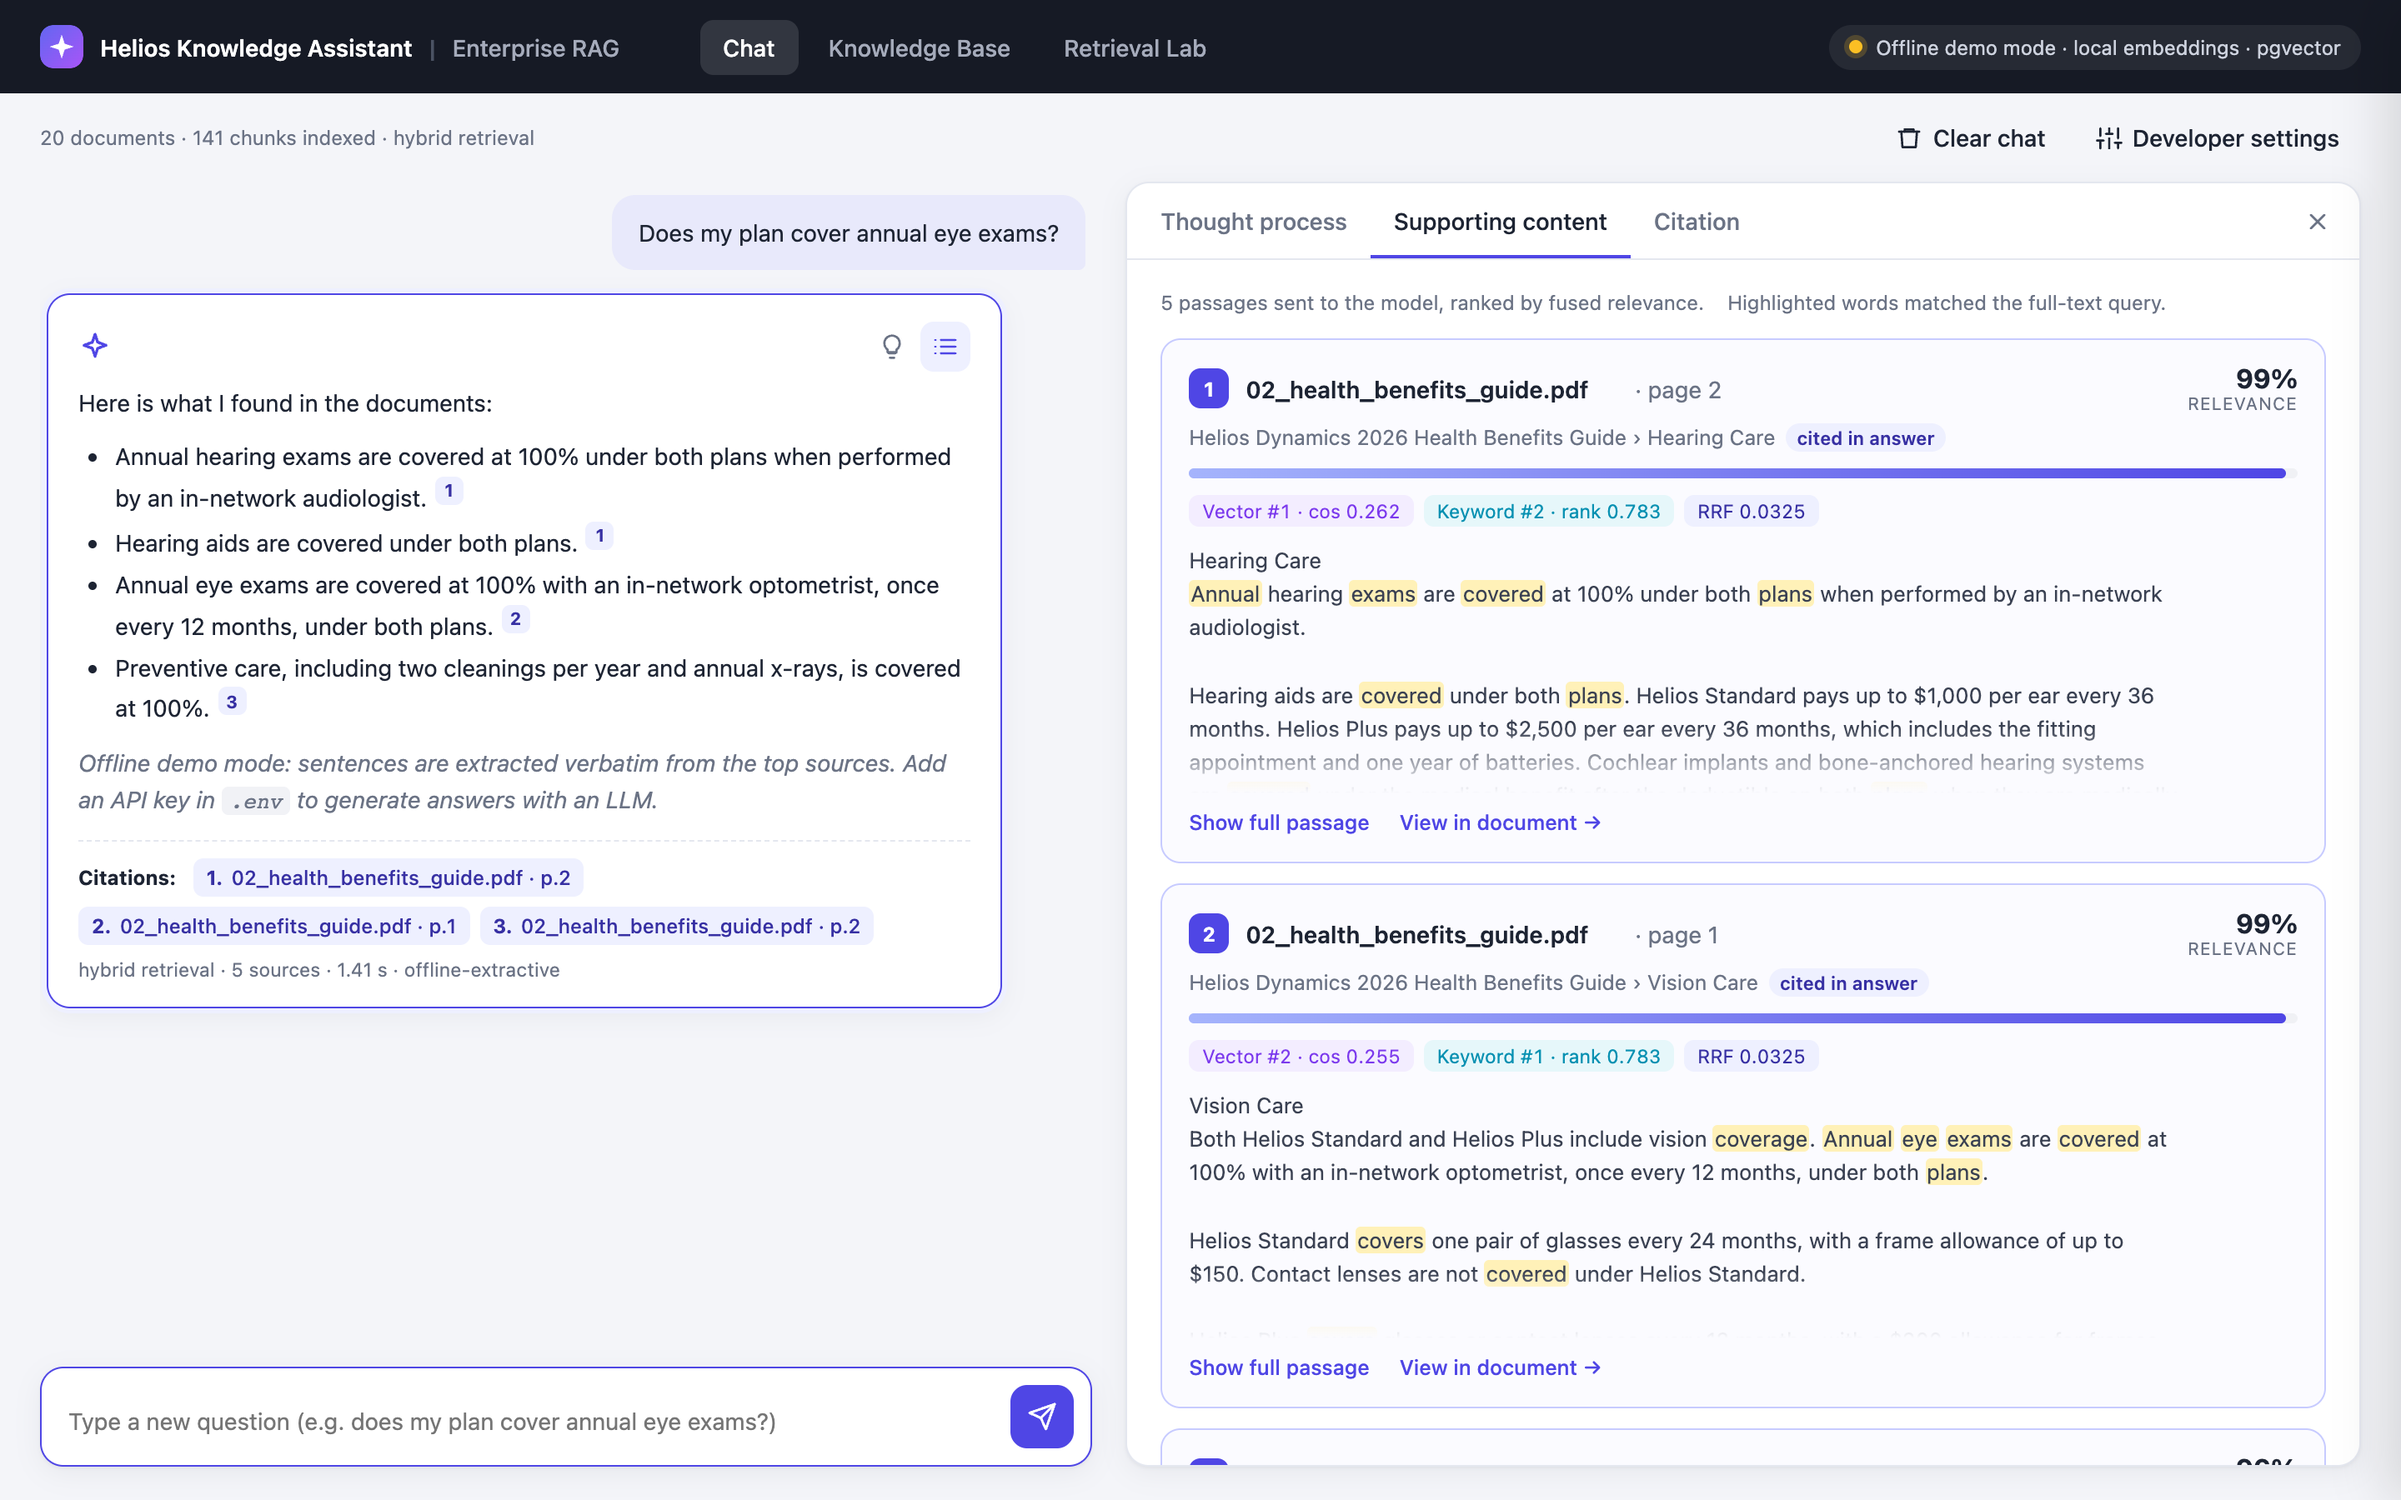
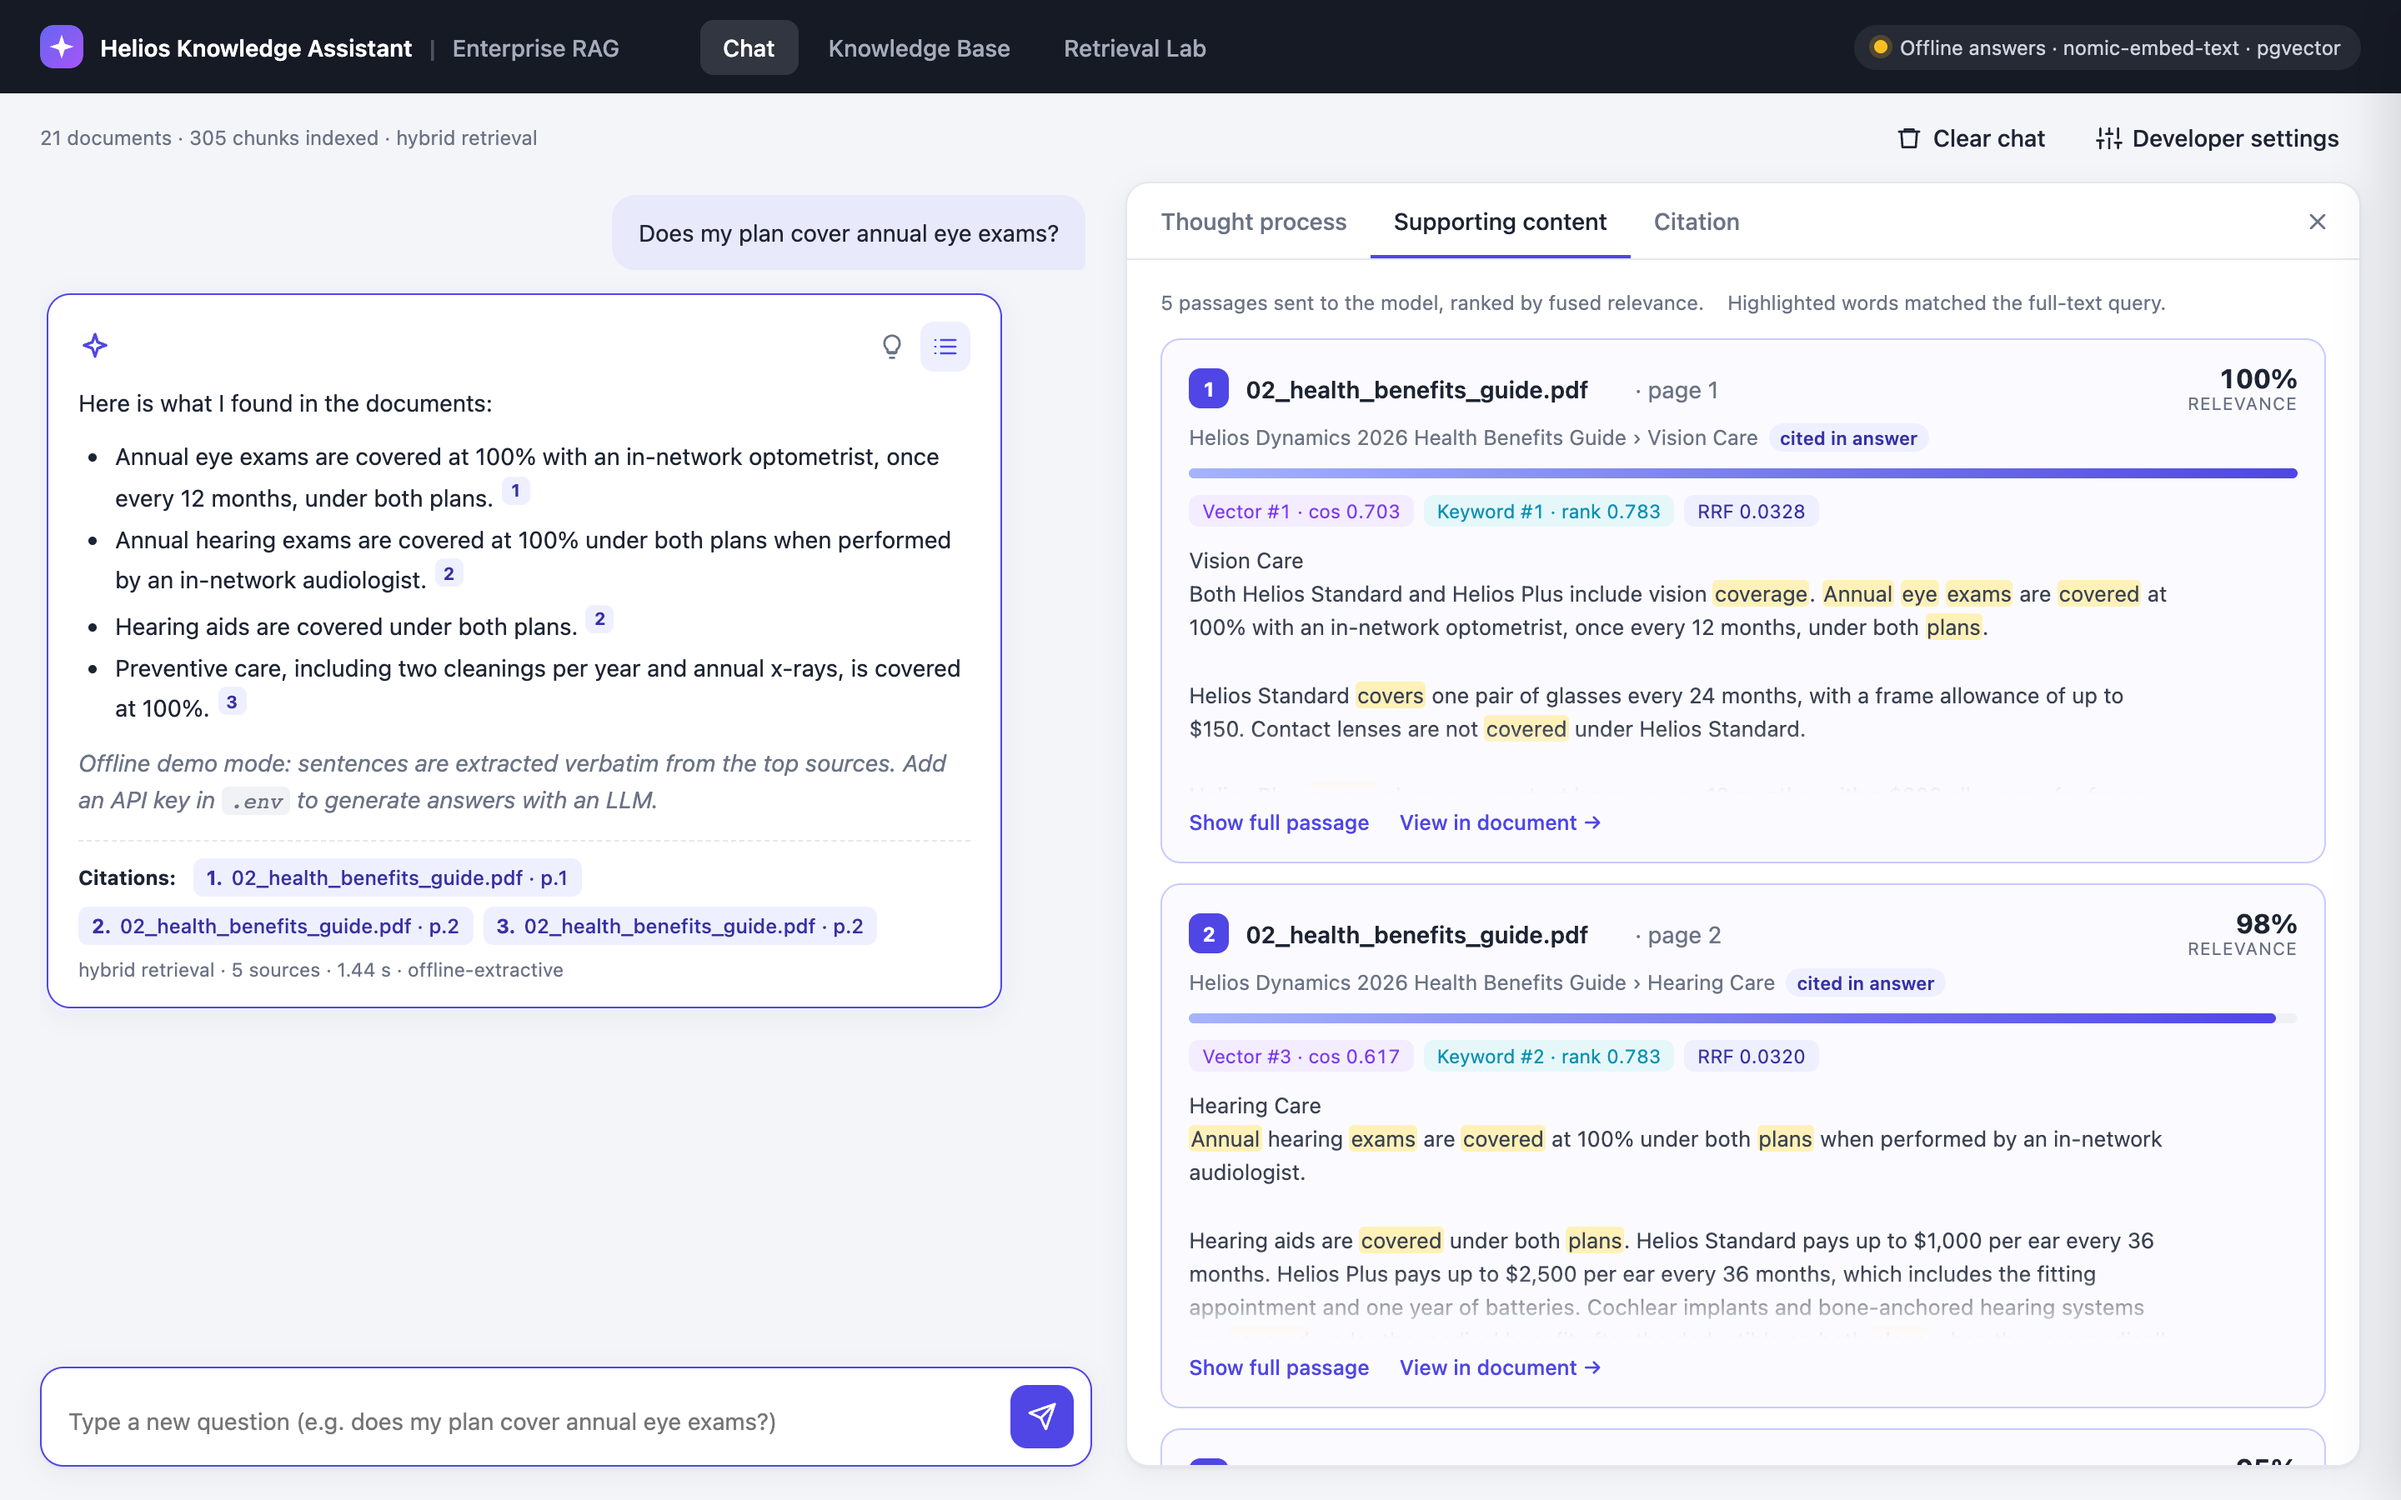
Support local Ollama embeddings, explicit RRF tie-break, refresh screenshots and README

diff --git a/static/app.js b/static/app.js
@@ -118,9 +118,9 @@ async function refreshHealth() {
     const pill = $("#stackPill");
     pill.classList.toggle("online", h.llm_enabled);
     pill.classList.toggle("offline", !h.llm_enabled);
-    $("#stackText").textContent = h.llm_enabled
-      ? `${h.chat_model} · ${h.embedding_model} · pgvector`
-      : "Offline demo mode · local embeddings · pgvector";
+    const chatLabel = h.llm_enabled ? h.chat_model : "Offline answers";
+    const embedLabel = h.embeddings_enabled ? h.embedding_model : "local hashing embeddings";
+    $("#stackText").textContent = `${chatLabel} · ${embedLabel} · pgvector`;
     $("#pipelineModel").textContent = `${h.embedding_model} (${h.embedding_dim}d)`;
 
     const kb = $("#kbStatus");

diff --git a/app/embeddings.py b/app/embeddings.py
@@ -12,7 +12,7 @@ import hashlib
 import math
 import re
 from functools import lru_cache
-from typing import Protocol
+from typing import Literal, Protocol
 
 import numpy as np
 
@@ -20,26 +20,45 @@ from .config import settings
 from .text_utils import STOPWORDS, stem
 
 
+InputType = Literal["document", "query"]
+
+# Models trained with task prefixes retrieve noticeably better when they are used.
+TASK_PREFIXES = {
+    "nomic-embed": {"document": "search_document: ", "query": "search_query: "},
+}
+
+
 class Embedder(Protocol):
     name: str
 
-    def embed(self, texts: list[str]) -> list[np.ndarray]: ...
+    def embed(self, texts: list[str], input_type: InputType = "document") -> list[np.ndarray]: ...
 
 
 class OpenAIEmbedder:
+    """Any OpenAI-compatible /v1/embeddings endpoint (OpenAI, Azure, Ollama, ...)."""
+
     def __init__(self) -> None:
         from openai import OpenAI
 
-        self.client = OpenAI(api_key=settings.openai_api_key, base_url=settings.openai_base_url)
+        # Local servers such as Ollama ignore the key, but the client requires a non-empty value.
+        api_key = settings.embedding_api_key or settings.openai_api_key or "unused"
+        self.client = OpenAI(api_key=api_key, base_url=settings.embedding_base_url or settings.openai_base_url)
         self.name = settings.embedding_model
+        self.prefixes = next((p for k, p in TASK_PREFIXES.items() if self.name.startswith(k)), None)
 
-    def embed(self, texts: list[str]) -> list[np.ndarray]:
+    def embed(self, texts: list[str], input_type: InputType = "document") -> list[np.ndarray]:
         vectors: list[np.ndarray] = []
         extra = {"dimensions": settings.embedding_dim} if self.name.startswith("text-embedding-3") else {}
+        prefix = self.prefixes[input_type] if self.prefixes else ""
         for i in range(0, len(texts), 96):
-            batch = [t.replace("\n", " ")[:8000] for t in texts[i:i + 96]]
+            batch = [prefix + t.replace("\n", " ")[:8000] for t in texts[i:i + 96]]
             response = self.client.embeddings.create(model=self.name, input=batch, **extra)
             vectors.extend(np.asarray(item.embedding, dtype=np.float32) for item in response.data)
+        if vectors and len(vectors[0]) != settings.embedding_dim:
+            raise ValueError(
+                f"{self.name} returned {len(vectors[0])}-dimensional vectors but EMBEDDING_DIM="
+                f"{settings.embedding_dim}; update EMBEDDING_DIM and recreate the chunks table"
+            )
         return vectors
 
 
@@ -65,10 +84,10 @@ class HashingEmbedder:
         norm = float(np.linalg.norm(vec))
         return vec / norm if norm > 0 and math.isfinite(norm) else vec
 
-    def embed(self, texts: list[str]) -> list[np.ndarray]:
+    def embed(self, texts: list[str], input_type: InputType = "document") -> list[np.ndarray]:
         return [self._vector(t) for t in texts]
 
 
 @lru_cache(maxsize=1)
 def get_embedder() -> Embedder:
-    return OpenAIEmbedder() if settings.llm_enabled else HashingEmbedder(settings.embedding_dim)
+    return OpenAIEmbedder() if settings.embeddings_enabled else HashingEmbedder(settings.embedding_dim)

diff --git a/app/config.py b/app/config.py
@@ -17,6 +17,10 @@ class Settings(BaseSettings):
     chat_model: str = "gpt-4o-mini"
     embedding_model: str = "text-embedding-3-small"
     embedding_dim: int = 1536
+    # Optional separate endpoint for embeddings, e.g. Ollama at http://localhost:11434/v1.
+    # Falls back to OPENAI_BASE_URL / OPENAI_API_KEY when unset.
+    embedding_base_url: str | None = None
+    embedding_api_key: str = ""
 
     upload_dir: Path = BASE_DIR / "data" / "uploads"
     sample_docs_dir: Path = BASE_DIR / "sample_data" / "documents"
@@ -31,8 +35,12 @@ class Settings(BaseSettings):
         return bool(self.openai_api_key.strip())
 
     @property
+    def embeddings_enabled(self) -> bool:
+        return bool(self.embedding_base_url or self.embedding_api_key.strip() or self.llm_enabled)
+
+    @property
     def active_embedding_model(self) -> str:
-        return self.embedding_model if self.llm_enabled else "local-hashing-v1"
+        return self.embedding_model if self.embeddings_enabled else "local-hashing-v1"
 
     @property
     def active_chat_model(self) -> str:

diff --git a/app/retrieval.py b/app/retrieval.py
@@ -66,7 +66,7 @@ def search(
     with pool().connection() as conn:
         if mode in ("hybrid", "vector"):
             t0 = time.perf_counter()
-            emb = get_embedder().embed([query])[0]
+            emb = get_embedder().embed([query], input_type="query")[0]
             stats.timings_ms["embed_query"] = _ms(t0)
             t0 = time.perf_counter()
             vec_hits = conn.execute(
@@ -97,7 +97,11 @@ def search(
             entry["rrf_score"] = rrf
             entry["relevance"] = rrf / best_possible if best_possible else 0.0
 
-        ranked = sorted(fused.values(), key=lambda e: e["rrf_score"], reverse=True)[:top_k]
+        # RRF ties are common (e.g. ranks 1+2 vs 2+1); break them by the semantic (vector) rank.
+        ranked = sorted(
+            fused.values(),
+            key=lambda e: (-e["rrf_score"], e.get("vector_rank", candidates + 1), e.get("keyword_rank", candidates + 1)),
+        )[:top_k]
         stats.timings_ms["fusion"] = _ms(t0)
 
         if not ranked:

diff --git a/app/main.py b/app/main.py
@@ -59,6 +59,7 @@ def health():
     return {
         "status": "ok",
         "llm_enabled": settings.llm_enabled,
+        "embeddings_enabled": settings.embeddings_enabled,
         "chat_model": settings.active_chat_model,
         "embedding_model": settings.active_embedding_model,
         "embedding_dim": settings.embedding_dim,

diff --git a/README.md b/README.md
@@ -13,7 +13,7 @@ A production-style **Retrieval-Augmented Generation** system that lets employees
 | **Document ingestion** | Upload PDF, DOCX, Markdown and TXT (drag & drop, batch). Files are de-duplicated by SHA-256 and processed in a background worker with live status. |
 | **Parsing** | Layout-aware PDF extraction keeps table rows intact, removes running headers/footers and tracks page numbers. DOCX headings, lists and tables are preserved. |
 | **Chunking** | Structure-aware: splits on section headings and sentences (~900 chars, 150 overlap). Every chunk stores its section, page and character offsets. |
-| **Embeddings** | `text-embedding-3-small` (1536-d) by default, any OpenAI-compatible provider. Chunks are embedded with their document title and section as context. |
+| **Embeddings** | `text-embedding-3-small` (1536-d) by default, or open-source `nomic-embed-text` (768-d) running locally in Ollama. Any OpenAI-compatible provider works, configured separately from the chat model. Chunks are embedded with their document title and section as context, and task prefixes are applied for models that expect them. |
 | **Hybrid retrieval** | pgvector cosine similarity (HNSW index) **+** PostgreSQL full-text search (`tsvector`, GIN index), fused with **Reciprocal Rank Fusion**. |
 | **Conversational search** | Follow-ups like *"How about hearing?"* are rewritten into standalone queries using the chat history. |
 | **Grounded answers** | Streaming answers that must cite numbered sources `[1]`; citations open the source document with the exact passage highlighted. |
@@ -71,11 +71,28 @@ cp .env.example .env          # add OPENAI_API_KEY (optional, see below)
 
 ### Offline demo mode
 
-Without `OPENAI_API_KEY` the app still runs end to end. It uses a local feature-hashing embedder and an extractive answerer, so the whole pipeline can be shown without any API cost. Add a key to switch to real embeddings and LLM answers, then click **Re-index**: the UI flags documents that were embedded with a different model.
+Without any model configured the app still runs end to end. It uses a local feature-hashing embedder and an extractive answerer, so the whole pipeline can be shown without any API cost. Add `OPENAI_API_KEY` to switch to real embeddings and LLM answers, then click **Re-index**: the UI flags documents that were embedded with a different model.
+
+### Local open-source embeddings (Ollama)
+
+Embeddings can run locally and for free, independently of the chat model:
+
+```bash
+brew install ollama && ollama serve &
+ollama pull nomic-embed-text
+```
+
+```dotenv
+EMBEDDING_BASE_URL=http://localhost:11434/v1
+EMBEDDING_MODEL=nomic-embed-text
+EMBEDDING_DIM=768
+```
+
+The vector column size is fixed when the `chunks` table is created, so after changing `EMBEDDING_DIM` drop that table (`psql rag -c "DROP TABLE chunks;"`), restart the app and click **Re-index**.
 
 ### Other providers
 
-Any OpenAI-compatible endpoint works through `OPENAI_BASE_URL`, `CHAT_MODEL` and `EMBEDDING_MODEL`, including Azure OpenAI (v1 API), DeepSeek, Groq, Together, Ollama and LM Studio. If the embedding size is not 1536, set `EMBEDDING_DIM` and recreate the database.
+Any OpenAI-compatible endpoint works. The chat model uses `OPENAI_BASE_URL`, `OPENAI_API_KEY` and `CHAT_MODEL`; embeddings use `EMBEDDING_BASE_URL`, `EMBEDDING_API_KEY`, `EMBEDDING_MODEL` and `EMBEDDING_DIM`, and fall back to the chat settings when unset. This covers Azure OpenAI (v1 API), DeepSeek, Groq, Together, Ollama and LM Studio.
 
 ### Docker (optional)
 
@@ -128,12 +145,15 @@ sample_data/       20 demo documents and their markdown sources
 
 ## Screenshots
 
+Captured with `nomic-embed-text` embeddings (Ollama, 768-d) and the offline extractive answerer; with a chat model configured, the answers are written by the LLM instead.
+
 | | |
 |---|---|
-| ![Thought process](docs/screenshots/03_thought_process.png) | ![Citation](docs/screenshots/04_citation_highlight.png) |
-| ![Knowledge base](docs/screenshots/05_knowledge_base.png) | ![Retrieval lab](docs/screenshots/07_retrieval_lab.png) |
+| ![Chat home](docs/screenshots/01_chat_home.png) | ![Thought process](docs/screenshots/03_thought_process.png) |
+| ![Citation](docs/screenshots/04_citation_highlight.png) | ![Retrieval lab](docs/screenshots/07_retrieval_lab.png) |
+| ![Knowledge base](docs/screenshots/05_knowledge_base.png) | ![Chunk inspector](docs/screenshots/06_chunk_inspector.png) |
 
-Regenerate them with `pip install playwright && python scripts/take_screenshots.py` (this uses your local Chrome).
+Regenerate them with `pip install playwright && python scripts/take_screenshots.py --url http://localhost:8080` (this uses your local Chrome).
 
 ## Production notes
 
